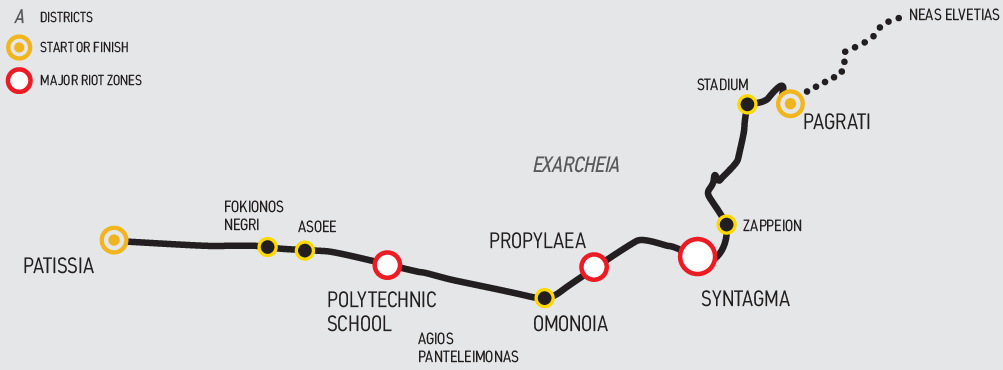
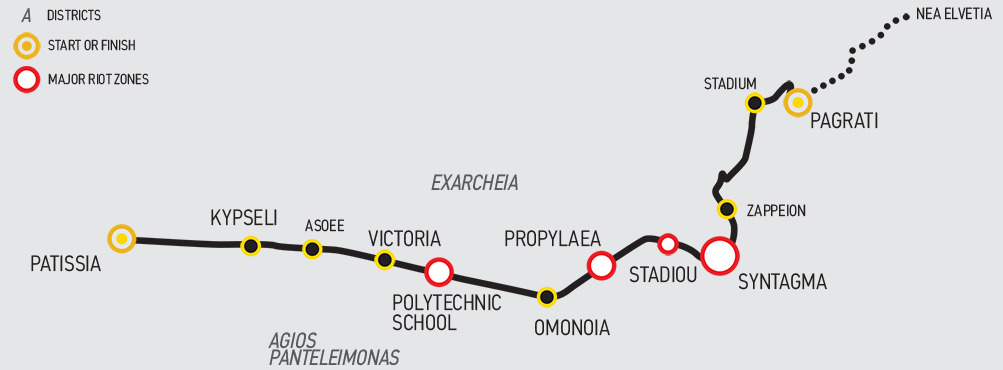
Add more points to the route map

diff --git a/athensreport/templates/gallery/theproject.html b/athensreport/templates/gallery/theproject.html
@@ -112,15 +112,36 @@
       <img src="{% static 'img/route.jpg' %}" alt="Route" class="route-img img-responsive" usemap="#routemap">
 
       <map name="routemap">
-        <area class="route-pick" shape="rect" coords="490, 230, 590, 250" href="#" alt="" data-point="993">
-        <area class="route-pick" shape="rect" coords="583, 254, 613, 286" href="#" alt="" data-point="993">
-        <area class="route-pick" shape="rect" coords="700, 290, 796, 312" href="#" alt="" data-point="822">
-        <area class="route-pick" shape="rect" coords="682, 239, 720, 280" href="#" alt="" data-point="822">
-        <area class="route-pick" shape="rect" coords="373, 249, 406, 283" href="#" alt="" data-point="1391">
-        <area class="route-pick" shape="rect" coords="328, 291, 440, 331" href="#" alt="" data-point="1391">
+        <!-- PATISSIA -->
+        <area class="route-pick" shape="rect" coords="109, 224, 133, 253" href="#" alt="" data-point="2497">
+        <area class="route-pick" shape="rect" coords="30, 253, 102, 272" href="#" alt="" data-point="2497">
+        <!-- KYPSELI -->
+        <area class="route-pick" shape="rect" coords="210, 210, 279, 226" href="#" alt="" data-point="3369">
+        <area class="route-pick" shape="rect" coords="242, 238, 258, 254" href="#" alt="" data-point="3369">
+        <!-- VICTORIA -->
+        <area class="route-pick" shape="rect" coords="367, 228, 441, 247" href="#" alt="" data-point="3649">
+        <area class="route-pick" shape="rect" coords="376, 251, 392, 269" href="#" alt="" data-point="3649">
+        <!-- POLYTECNIC -->
+        <area class="route-pick" shape="rect" coords="424, 258, 452, 286" href="#" alt="" data-point="1401">
+        <area class="route-pick" shape="rect" coords="390, 290, 500, 330" href="#" alt="" data-point="1401">
+        <!-- PANTELEIMONAS -->
+        <area class="route-pick" shape="rect" coords="270, 330, 400, 367" href="#" alt="" data-point="3570">
+        <!-- OMONIA -->
+        <area class="route-pick" shape="rect" coords="538, 289, 557, 307" href="#" alt="" data-point="3931">
+        <area class="route-pick" shape="rect" coords="533, 317, 611, 335" href="#" alt="" data-point="3931">
+        <!-- PROPYLAEA -->
+        <area class="route-pick" shape="rect" coords="502, 225, 602, 245" href="#" alt="" data-point="993">
+        <area class="route-pick" shape="rect" coords="588, 249, 615, 280" href="#" alt="" data-point="993">
+        <!-- STADIOU -->
+        <area class="route-pick" shape="rect" coords="660, 233, 675, 255" href="#" alt="" data-point="4178">
+        <area class="route-pick" shape="rect" coords="629, 265, 694, 283" href="#" alt="" data-point="4178">
+        <!-- SYNTAGMA -->
+        <area class="route-pick" shape="rect" coords="701, 238, 827, 290" href="#" alt="" data-point="822">
+        <!-- PAGRATI -->
+        <area class="route-pick" shape="rect" coords="785, 89, 880, 129" href="#" alt="" data-point="267">
       </map>
       <div class="strip yellowish text-center">
-        Click on the map to go to major riot zones | pause video to go to galleries
+        Click on the map to go to riot zones | pause video to go to galleries
       </div>
     </div>
   </div>

diff --git a/athensreport/templates/base/home.html b/athensreport/templates/base/home.html
@@ -75,7 +75,7 @@
     <div class="route-container">
       <img src="{% static 'img/route.jpg' %}" alt="Route" class="img-responsive">
       <div class="strip yellowish text-center container">
-        Click on the map to go to major riot zones | pause video to go to galleries
+        Click on the map to go to riot zones | pause video to go to galleries
       </div>
       <div class="row route-info">
         <div class="col-md-4">

diff --git a/athensreport/static/css/app.css b/athensreport/static/css/app.css
@@ -304,7 +304,7 @@ a:hover {
 
 .video-help {
     float: left;
-    margin: 5px 0 0 20px;
+    margin: 5px 0 0 40px;
     font-size: 1.1em;
     font-weight: bold;
     color: #666;
